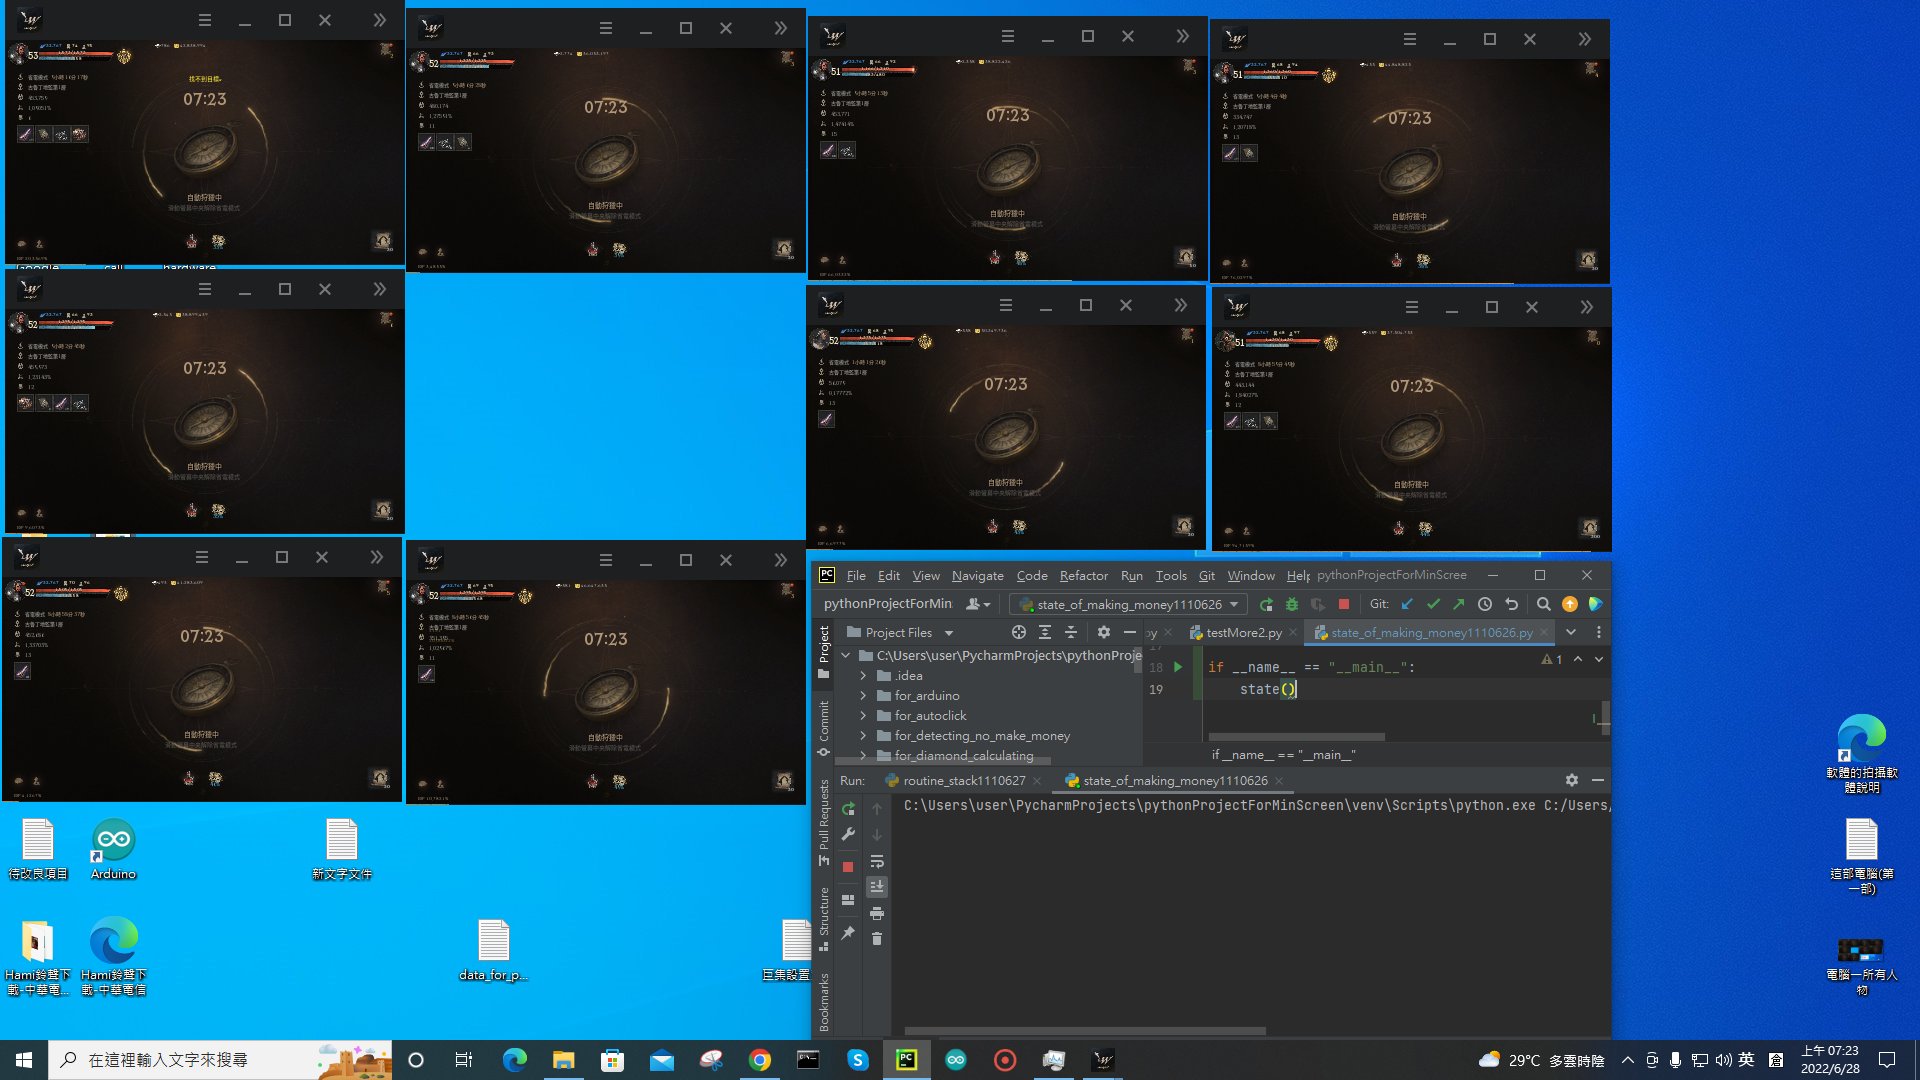
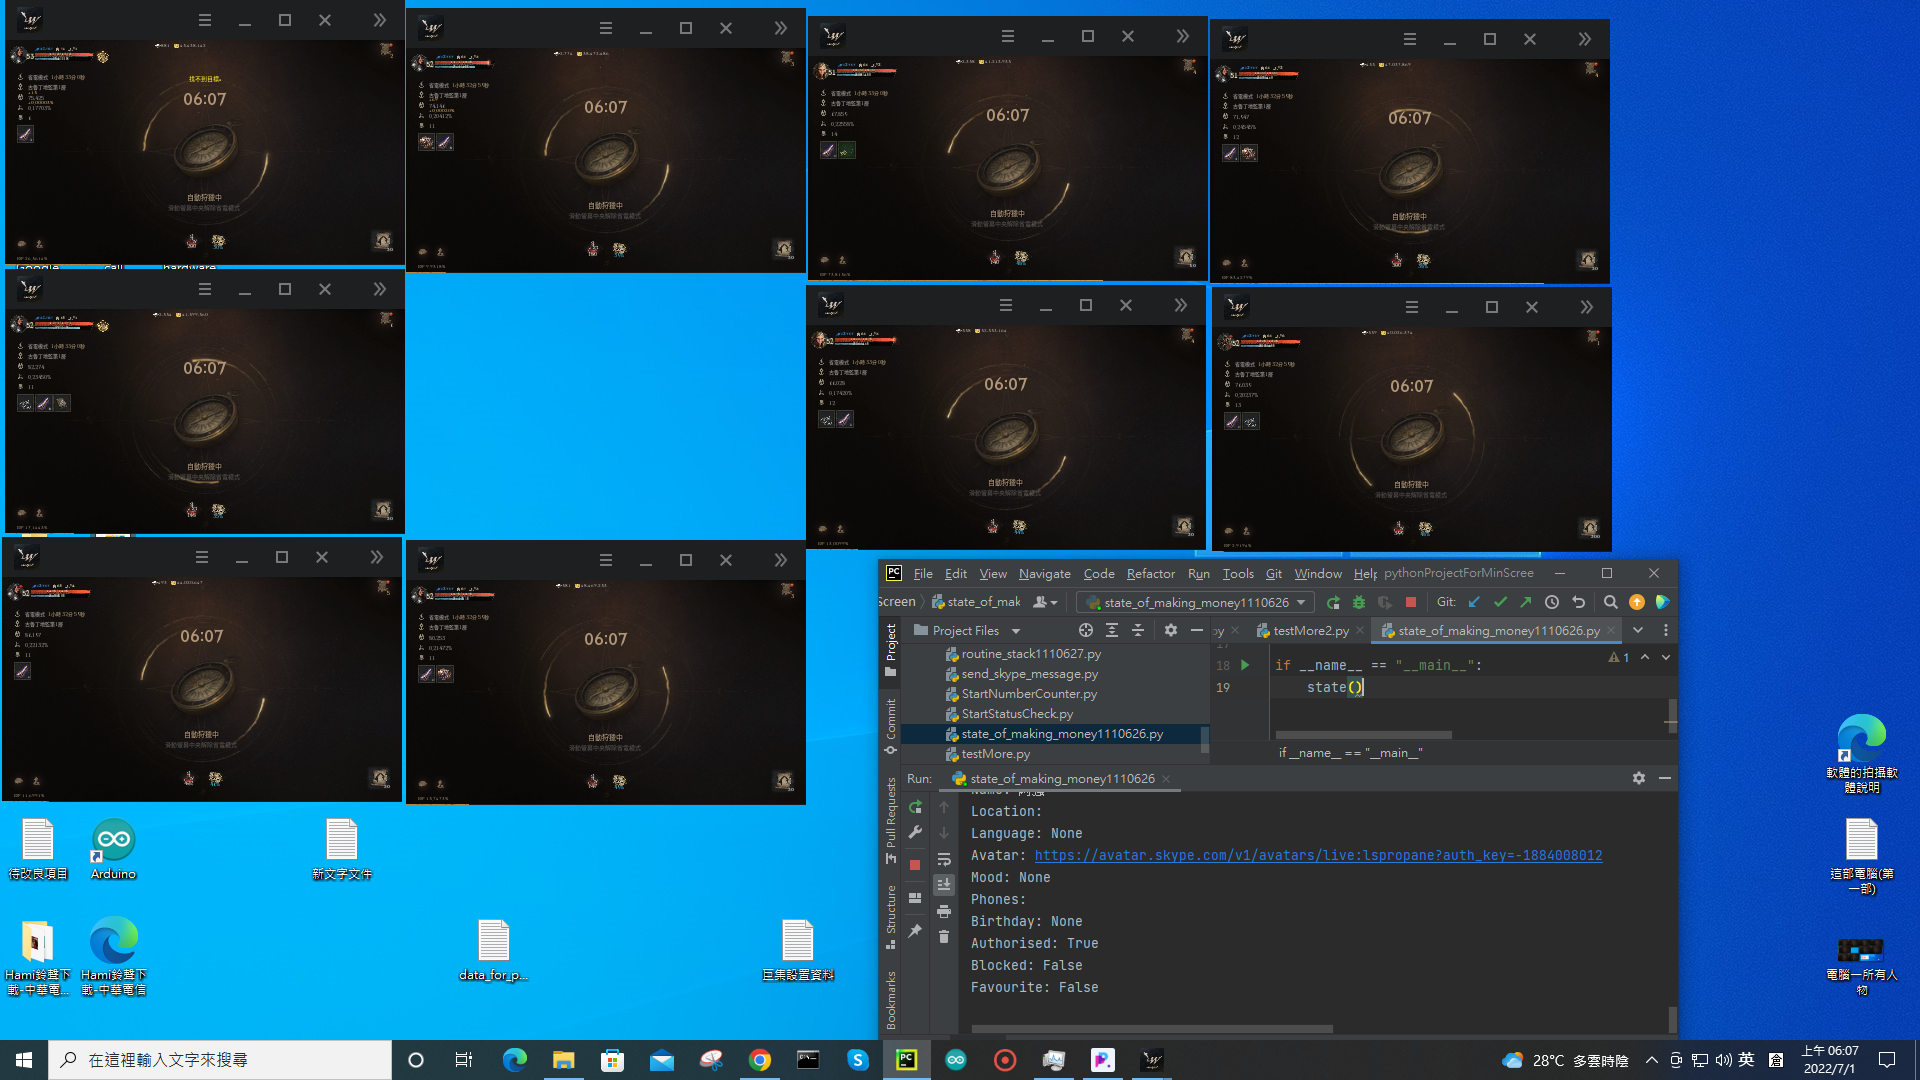
2022/6/26 修正monitor的程式(原本加了 if __name__=="__main__"而沒有顯示圖片)

diff --git a/monitor.py b/monitor.py
@@ -54,17 +54,17 @@ def check():
             notDetectedNumber += 1
             cv2.rectangle(img2, (locationRecord[j][0], locationRecord[j][1]), (locationRecord[j][2], locationRecord[j][3]), (0, 0, 255), 2)
 
-    if __name__ == '__name__':    # 展示圖的部分在這個模組被引用時不展示
-        if notDetectedNumber > 0:
-            cv2.putText(img2, f'{notDetectedNumber} characters did not make money', (50, 50), cv2.FONT_HERSHEY_SIMPLEX, 1, (0, 0,255), 2)
-            img2 = cv2.resize(img2,(0, 0), fx=0.75, fy=0.75)
-            cv2.imshow(f'{notDetectedNumber} characters did not make money', img2)
-            print(f'共有{deviceNumber}個角色監測中')
-            print(f'有{notDetectedNumber}個角色沒有正常運作')
-            cv2.waitKey(0)
-        else:
-            print(f'共有{deviceNumber}個角色監測中')
-            print("所有的角色都正常運作")
+ #   if __name__ == '__name__':    # 展示圖的部分在這個模組被引用時不展示
+    if notDetectedNumber > 0:
+        cv2.putText(img2, f'{notDetectedNumber} characters did not make money', (50, 50), cv2.FONT_HERSHEY_SIMPLEX, 1, (0, 0,255), 2)
+        img2 = cv2.resize(img2,(0, 0), fx=0.75, fy=0.75)
+        cv2.imshow(f'{notDetectedNumber} characters did not make money', img2)
+        print(f'共有{deviceNumber}個角色監測中')
+        print(f'有{notDetectedNumber}個角色沒有正常運作')
+        cv2.waitKey(0)
+    else:
+        print(f'共有{deviceNumber}個角色監測中')
+        print("所有的角色都正常運作")
 
     return notDetectedNumber  #check這個函式會回傳沒有在賺錢的人物
 
